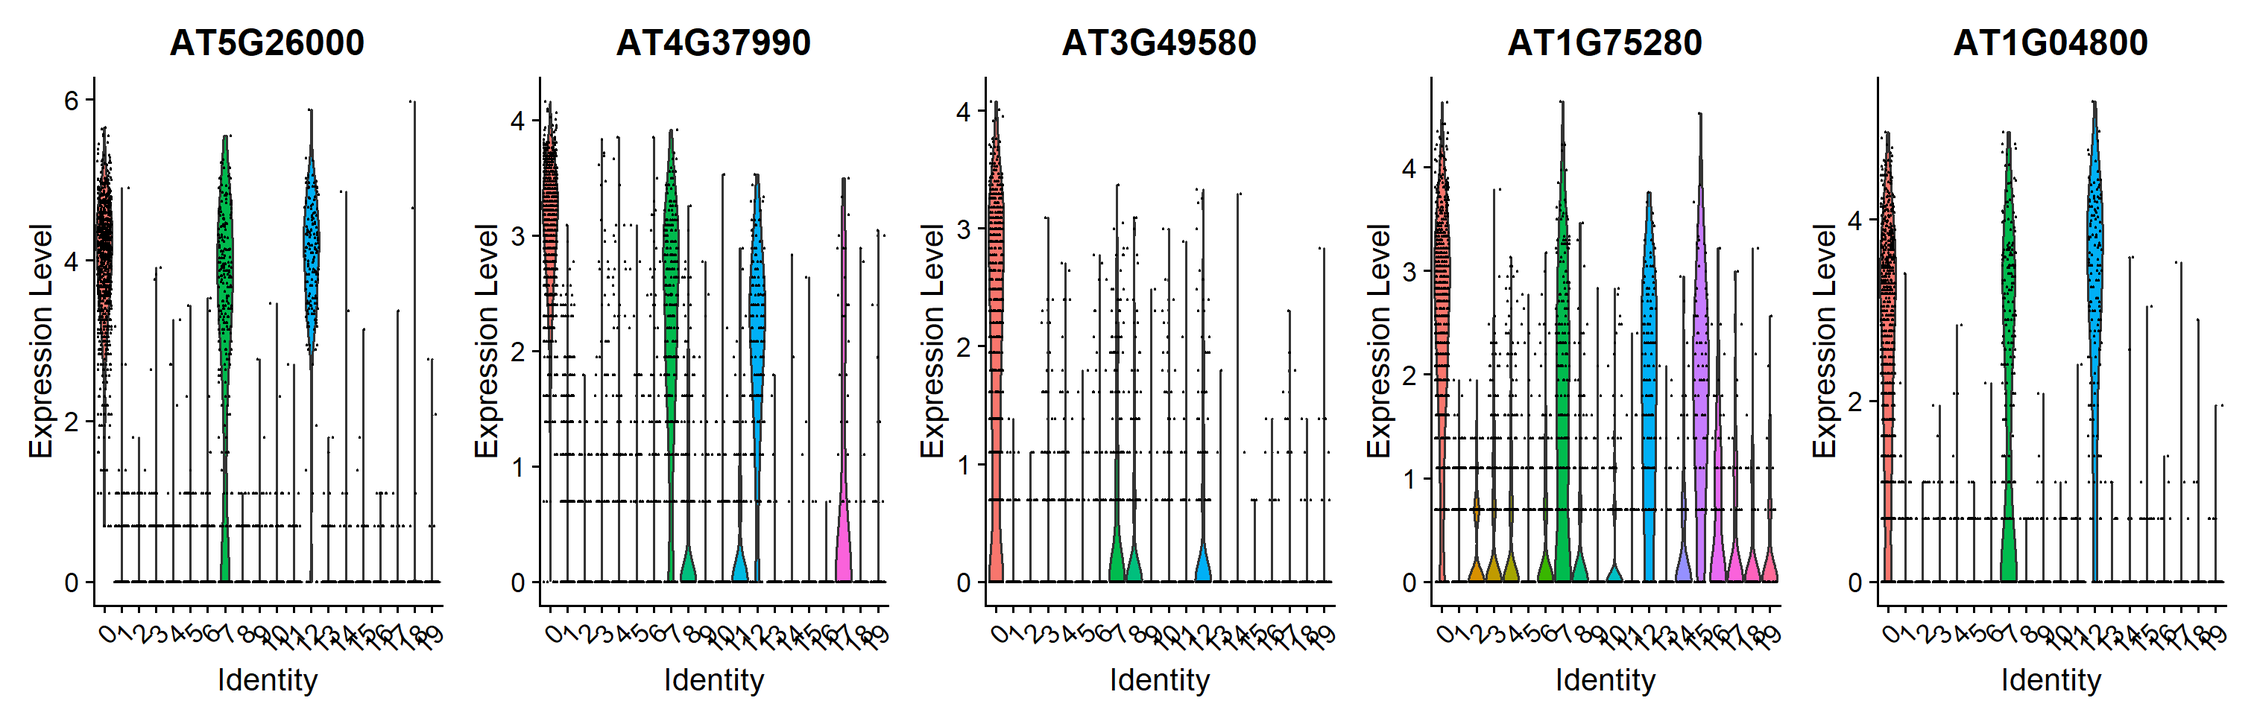
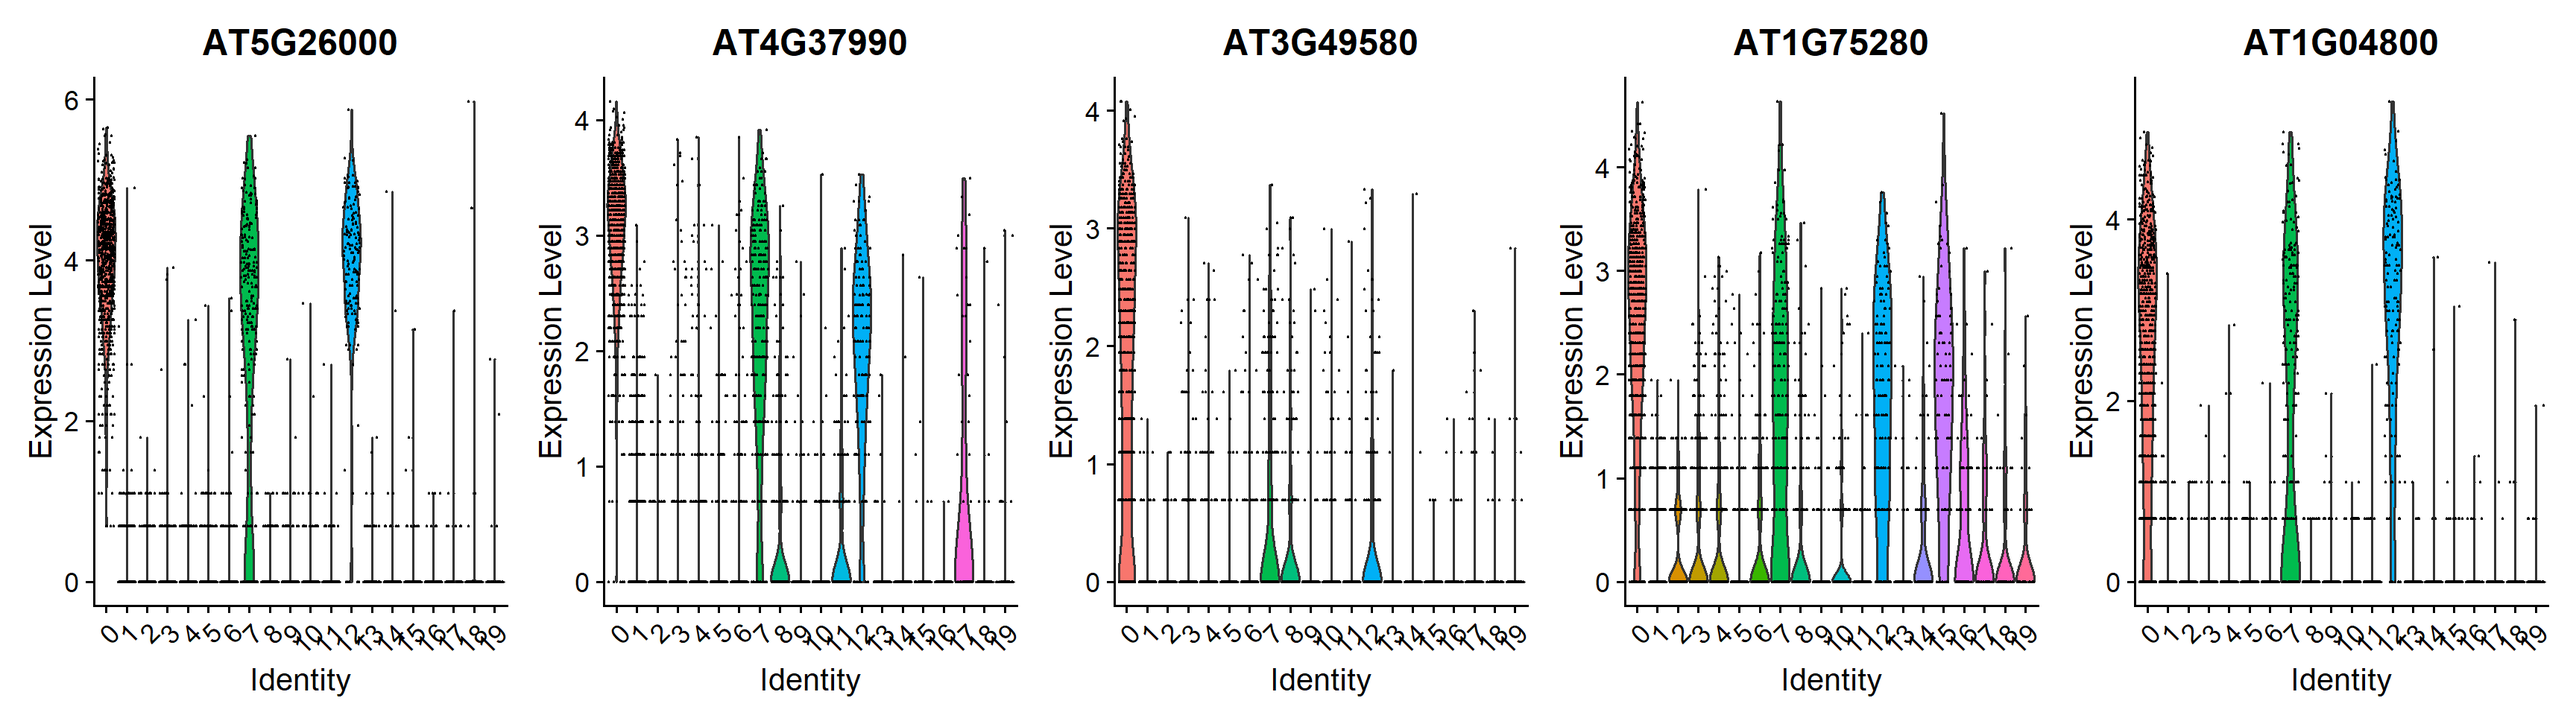
CP3 polished

diff --git a/ComputerPractice3_from_clusters_to_genes.html b/ComputerPractice3_from_clusters_to_genes.html
@@ -18,6 +18,7 @@ class: left, middle
 ##Seurat: from clusters to marker genes
 ####Victoria Mironova 
 ####Associate Professor, Department of Plant Systems Physiology
+####RIBES, Radboud University
 &lt;img src="Figures/Theme2.png" width="100px" align = 'right'&gt;
 
 ---
@@ -62,11 +63,11 @@ class: inverse, middle
 
 #The learning goals for this tutorial:
 
-- how to find and visualize marker genes
+- To find and visualize marker genes
 
-- How to find differentially expressed genes?
+- To find differentially expressed genes
 
-- How to annotate the clusters?
+- To annotate the cell clusters.
 
 ---
 #Step 1: Preparatory
@@ -178,7 +179,7 @@ top5&lt;- leaf.markers %&gt;%
 VlnPlot(leaf.dataset, features = top5$gene, pt.size = 0.2, ncol = 5)
 ```
 
-&lt;img src="ComputerPractice3_from_clusters_to_genes_files/figure-html/Vln for markers-1.png" width="1008" /&gt;
+&lt;img src="ComputerPractice3_from_clusters_to_genes_files/figure-html/Vln for markers-1.png" width="1152" /&gt;
 
 ---
 #Vizualizing the markers: dot plot
@@ -253,12 +254,12 @@ VlnPlot(leaf.dataset, features = top10, pt.size = 0.2, ncol = 5)
 &lt;img src="ComputerPractice3_from_clusters_to_genes_files/figure-html/Vln for markers 2 clusters-1.png" width="1152" /&gt;
 The data suggests that there is no any specifically expressed gene between two clusters, they all express in both cell populations, but with different expression levels. 
 ---
-#Other solutions for markers genes
+#Other solutions for marker genes
 
 Differentially expressed genes between a set of clusters:
 
 ```r
-FindMarkers(leaf.datase, ident.1 = 2, ident.2 = c(1,6), min.pct = 0.25)
+FindMarkers(leaf.dataset, ident.1 = 2, ident.2 = c(1,6), min.pct = 0.25)
 ```
 
 Seurat has several tests for differential expression which can be set with the test.use parameter.
@@ -275,7 +276,7 @@ class: middle, inverse
 
 #Aim 3
 
-- Annotate cell clusters
+- To annotate the cell clusters
 
 ---
 #Step 7. Clusters annotation by an expert
@@ -350,7 +351,7 @@ DimPlot(leaf.dataset, label = TRUE, pt.size = 1.5, label.size = 10) + NoLegend()
 class: middle, inverse
 #Your turn:
 
-- Explore gene expression patterns for your dataset (use heatmaps, dotplots, and violine plot).
+- Explore gene expression patterns for your dataset (use heatmaps, dotplots, and violine plots).
 
 - Name a few clusters in your dataset.
 
